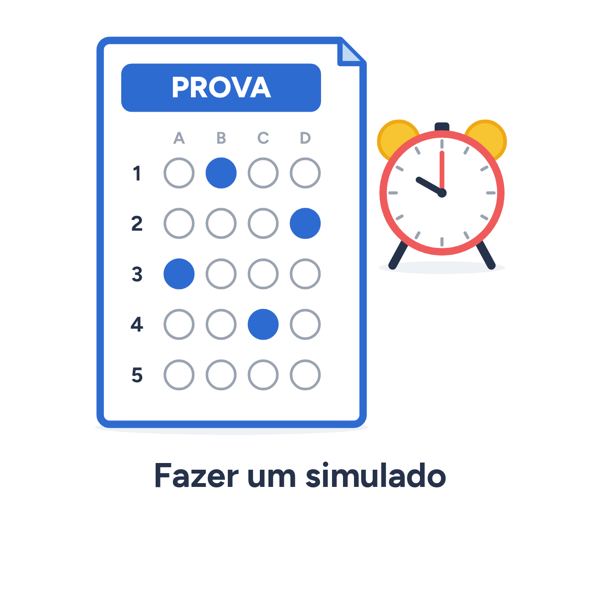
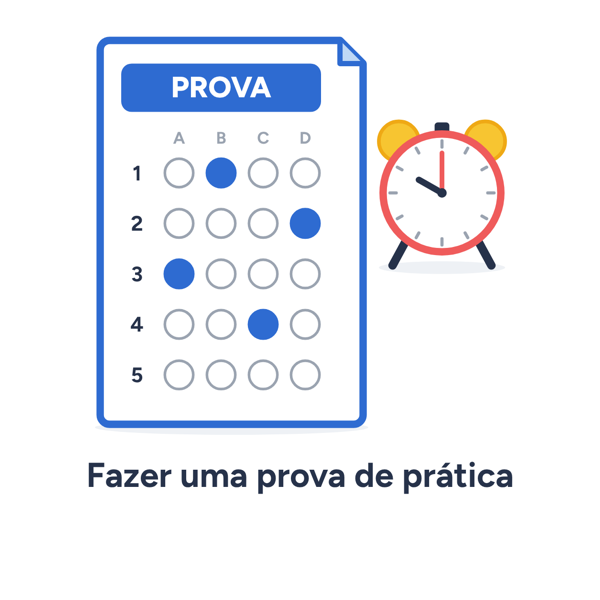
Activity cards: new images from the team folder + 7 text updates
- 19 cards replaced (Task1_activity_illustrations study.zip /
  entertainment.zip, scaled to 600 px): the 7 reworded ones (study_03,
  04, 20, 24, 26, 28, entertainment_23) and 12 study cards whose printed
  caption now matches their text (study_01, 05, 07, 08, 09, 11, 12, 14,
  16, 17, 19, 29). The other 41 cards were identical.
- stimuli.js text for the 7 (PT from the team; EN translated to match).
- image URLs carry ?v=IMG_VERSION so browsers don't show cached old cards.

Changed region(s): [[0.12, 0.75, 0.87, 0.84]]

diff --git a/shared/stimuli.js b/shared/stimuli.js
@@ -9,8 +9,8 @@ const ACTIVITIES = [
   // Study activities (goal)
   { id: 'study_01', cat: 'study', en: "Explain a difficult idea in your own words", pt: "Explicar uma ideia difícil com suas próprias palavras" },
   { id: 'study_02', cat: 'study', en: "Teach the material to a friend", pt: "Ensinar a matéria para um amigo" },
-  { id: 'study_03', cat: 'study', en: "Work through a difficult problem step by step", pt: "Resolver uma questão difícil passo a passo" },
-  { id: 'study_04', cat: 'study', en: "Practice questions without looking at your notes", pt: "Resolver questões sem consultar suas anotações" },
+  { id: 'study_03', cat: 'study', en: "Work through a difficult problem", pt: "Resolver uma questão difícil" },
+  { id: 'study_04', cat: 'study', en: "Do exercises without looking at your notes", pt: "Resolver exercícios sem consultar suas anotações" },
   { id: 'study_05', cat: 'study', en: "Close your notes and write down three key ideas you remember", pt: "Fechar suas anotações e escrever três ideias principais que você consegue lembrar" },
   { id: 'study_06', cat: 'study', en: "Make a list of questions you still have", pt: "Listar todas as suas dúvidas" },
   { id: 'study_07', cat: 'study', en: "Think aloud as you solve a problem", pt: "Pensar em voz alta enquanto resolve uma questão" },
@@ -26,15 +26,15 @@ const ACTIVITIES = [
   { id: 'study_17', cat: 'study', en: "Watch a tutorial about a difficult topic", pt: "Assistir a uma videoaula sobre um assunto difícil" },
   { id: 'study_18', cat: 'study', en: "Review the topics you know the least", pt: "Revisar os assuntos que você menos domina" },
   { id: 'study_19', cat: 'study', en: "Try the question again without looking at the example", pt: "Tentar resolver a questão novamente sem consultar o exemplo" },
-  { id: 'study_20', cat: 'study', en: "Go through the teacher's review sheet", pt: "Estudar pelo roteiro de revisão do professor" },
+  { id: 'study_20', cat: 'study', en: "Study with the teacher's review", pt: "Estudar com a revisão feita pelo professor" },
   { id: 'study_21', cat: 'study', en: "Review your class notes", pt: "Rever suas anotações da aula" },
   { id: 'study_22', cat: 'study', en: "Reread the textbook chapter", pt: "Reler o capítulo do livro" },
   { id: 'study_23', cat: 'study', en: "Make a summary of the material", pt: "Fazer um resumo da matéria" },
-  { id: 'study_24', cat: 'study', en: "Study with digital flashcards", pt: "Estudar com flashcards digitais" },
+  { id: 'study_24', cat: 'study', en: "Study with flashcards", pt: "Estudar com fichas" },
   { id: 'study_25', cat: 'study', en: "Watch a review video lesson", pt: "Assistir a uma videoaula de revisão" },
-  { id: 'study_26', cat: 'study', en: "Highlight the key points", pt: "Marcar os pontos principais" },
+  { id: 'study_26', cat: 'study', en: "Underline the key points in the book", pt: "Sublinhar os pontos principais no livro" },
   { id: 'study_27', cat: 'study', en: "Make a mind map of the topic", pt: "Fazer um mapa mental da matéria" },
-  { id: 'study_28', cat: 'study', en: "Memorize the key definitions", pt: "Decorar as definições principais" },
+  { id: 'study_28', cat: 'study', en: "Memorize the main definitions", pt: "Decorar as principais definições" },
   { id: 'study_29', cat: 'study', en: "Organize your notes and add any missing information", pt: "Organizar suas anotações e acrescentar as informações que faltam" },
   { id: 'study_30', cat: 'study', en: "Solve the exercises in the book", pt: "Resolver os exercícios do livro" },
   // Entertainment activities (temptation)
@@ -60,7 +60,7 @@ const ACTIVITIES = [
   { id: 'entertainment_20', cat: 'entertainment', en: "Go to a friend's house", pt: "Ir à casa de um amigo" },
   { id: 'entertainment_21', cat: 'entertainment', en: "Go to the mall with friends", pt: "Ir ao shopping com os amigos" },
   { id: 'entertainment_22', cat: 'entertainment', en: "Go out to eat with friends", pt: "Sair para comer com os amigos" },
-  { id: 'entertainment_23', cat: 'entertainment', en: "Order a snack on iFood", pt: "Pedir um lanche no iFood" },
+  { id: 'entertainment_23', cat: 'entertainment', en: "Order a snack", pt: "Pedir um lanche" },
   { id: 'entertainment_24', cat: 'entertainment', en: "Play soccer outside", pt: "Jogar bola lá fora" },
   { id: 'entertainment_25', cat: 'entertainment', en: "Play volleyball", pt: "Jogar vôlei" },
   { id: 'entertainment_26', cat: 'entertainment', en: "Ride a bike", pt: "Andar de bicicleta" },
@@ -187,7 +187,9 @@ const TASK1_PRACTICE_LIST = [
 
 /* Pictures. The card already shows the (Portuguese) label, so pages show
    the card alone, with no caption, in every language. */
-const activityImgSrc = act => Session.ROOT + 'shared/activity_images/' + act.cat + '/' + act.id + '.png';
+// Bump IMG_VERSION whenever card images are replaced, so browsers don't show a cached old card.
+const IMG_VERSION = '20261110';
+const activityImgSrc = act => Session.ROOT + 'shared/activity_images/' + act.cat + '/' + act.id + '.png?v=' + IMG_VERSION;
 const activityImgFile = act => act.cat + '/' + act.id + '.png';
 function activityPic(act){
   return `<span class="pic"><img src="${activityImgSrc(act)}" alt="${act.pt.replace(/"/g, '&quot;')}" draggable="false"></span>`;

diff --git a/task1/index.html b/task1/index.html
@@ -4,8 +4,8 @@
 <meta charset="UTF-8">
 <meta name="viewport" content="width=device-width, initial-scale=1.0">
 <title>Game 1</title>
-<link rel="stylesheet" href="../shared/activity.css?v=202611101834">
-<link rel="stylesheet" href="../shared/dragcursor.css?v=202611101834">
+<link rel="stylesheet" href="../shared/activity.css?v=202611101842">
+<link rel="stylesheet" href="../shared/dragcursor.css?v=202611101842">
 <style>
   :root {
     --bg:     #f4efe4;
@@ -178,7 +178,7 @@
 
   @media (max-width: 880px) { main { grid-template-columns: 1fr; } }
 </style>
-<link rel="stylesheet" href="../shared/touch.css?v=202611101834">
+<link rel="stylesheet" href="../shared/touch.css?v=202611101842">
 </head>
 <body>
 <div class="container">
@@ -278,13 +278,13 @@
   </main>
 </div>
 
-<script src="../shared/config.js?v=202611101834"></script>
-<script src="../shared/i18n.js?v=202611101834"></script>
-<script src="../shared/videos.js?v=202611101834"></script>
-<script src="../shared/stimuli.js?v=202611101834"></script>
-<script src="../shared/session.js?v=202611101834"></script>
-<script src="../shared/mousetracking.js?v=202611101834"></script>
-<script src="../shared/dragcursor.js?v=202611101834"></script>
+<script src="../shared/config.js?v=202611101842"></script>
+<script src="../shared/i18n.js?v=202611101842"></script>
+<script src="../shared/videos.js?v=202611101842"></script>
+<script src="../shared/stimuli.js?v=202611101842"></script>
+<script src="../shared/session.js?v=202611101842"></script>
+<script src="../shared/mousetracking.js?v=202611101842"></script>
+<script src="../shared/dragcursor.js?v=202611101842"></script>
 <script>
 /* =============================================================
    TASK 1 — GOAL–TEMPTATION MOUSE-TRACKING

diff --git a/ratings/index.html b/ratings/index.html
@@ -3,9 +3,9 @@
 <head>
 <meta charset="UTF-8">
 <meta name="viewport" content="width=device-width, initial-scale=1.0">
-<link rel="stylesheet" href="../shared/survey.css?v=202611101834">
+<link rel="stylesheet" href="../shared/survey.css?v=202611101842">
 <title>Ratings</title>
-<link rel="stylesheet" href="../shared/activity.css?v=202611101834">
+<link rel="stylesheet" href="../shared/activity.css?v=202611101842">
 <style>
   :root { --bg:#f4efe4; --panel:#ece5d3; --ink:#1f1e2c; --soft:#7a7587; --accent:#a8324a; --rule:#d8cfb6; }
   * { box-sizing: border-box; margin: 0; padding: 0; -webkit-tap-highlight-color: transparent; }
@@ -38,7 +38,7 @@
   .nav button:disabled { opacity: 0.5; cursor: default; }
   .hidden { display: none !important; }
 </style>
-<link rel="stylesheet" href="../shared/touch.css?v=202611101834">
+<link rel="stylesheet" href="../shared/touch.css?v=202611101842">
 </head>
 <body>
 <div class="container">
@@ -69,11 +69,11 @@
   </section>
 </div>
 
-<script src="../shared/config.js?v=202611101834"></script>
-<script src="../shared/i18n.js?v=202611101834"></script>
-<script src="../shared/videos.js?v=202611101834"></script>
-<script src="../shared/stimuli.js?v=202611101834"></script>
-<script src="../shared/session.js?v=202611101834"></script>
+<script src="../shared/config.js?v=202611101842"></script>
+<script src="../shared/i18n.js?v=202611101842"></script>
+<script src="../shared/videos.js?v=202611101842"></script>
+<script src="../shared/stimuli.js?v=202611101842"></script>
+<script src="../shared/session.js?v=202611101842"></script>
 <script>
 /* =============================================================
    RATINGS — stimulus norming (doc "Task 1 Candidate Activity Stimuli v2")

diff --git a/task2/index.html b/task2/index.html
@@ -4,7 +4,7 @@
 <meta charset="UTF-8">
 <meta name="viewport" content="width=device-width, initial-scale=1.0">
 <title>Game 2</title>
-<link rel="stylesheet" href="../shared/dragcursor.css?v=202611101834">
+<link rel="stylesheet" href="../shared/dragcursor.css?v=202611101842">
 <style>
   :root {
     --bg:     #f4efe4;
@@ -281,7 +281,7 @@
   .hidden { display: none !important; }
   @media (max-width: 700px) { main.split { grid-template-columns: 1fr; } }   /* iPad portrait keeps the split */
 </style>
-<link rel="stylesheet" href="../shared/touch.css?v=202611101834">
+<link rel="stylesheet" href="../shared/touch.css?v=202611101842">
 </head>
 <body>
 <div class="container">
@@ -453,13 +453,13 @@
 
 </div>
 
-<script src="../shared/config.js?v=202611101834"></script>
-<script src="../shared/i18n.js?v=202611101834"></script>
-<script src="../shared/session.js?v=202611101834"></script>
-<script src="../shared/questions.js?v=202611101834"></script>
-<script src="../shared/videos.js?v=202611101834"></script>
-<script src="../shared/mousetracking.js?v=202611101834"></script>
-<script src="../shared/dragcursor.js?v=202611101834"></script>
+<script src="../shared/config.js?v=202611101842"></script>
+<script src="../shared/i18n.js?v=202611101842"></script>
+<script src="../shared/session.js?v=202611101842"></script>
+<script src="../shared/questions.js?v=202611101842"></script>
+<script src="../shared/videos.js?v=202611101842"></script>
+<script src="../shared/mousetracking.js?v=202611101842"></script>
+<script src="../shared/dragcursor.js?v=202611101842"></script>
 <script>
 /* =============================================================
    TASK 2 — SPLIT-SCREEN ADT: study content vs. video temptation

diff --git a/allocation/index.html b/allocation/index.html
@@ -3,7 +3,7 @@
 <head>
 <meta charset="UTF-8">
 <meta name="viewport" content="width=device-width, initial-scale=1.0">
-<link rel="stylesheet" href="../shared/slider.css?v=202611101834">
+<link rel="stylesheet" href="../shared/slider.css?v=202611101842">
 <title>Planning</title>
 <style>
   :root { --bg:#f4efe4; --panel:#ece5d3; --ink:#1f1e2c; --soft:#7a7587; --accent:#a8324a; --rule:#d8cfb6; }
@@ -44,7 +44,7 @@
   .hidden { display: none !important; }
   @media (max-width: 560px) { .card { padding: 22px 18px; } .box .n { font-size: 28px; } }
 </style>
-<link rel="stylesheet" href="../shared/touch.css?v=202611101834">
+<link rel="stylesheet" href="../shared/touch.css?v=202611101842">
 </head>
 <body>
 <div class="container">
@@ -79,10 +79,10 @@
   <section class="card hidden" id="doneCard"><p id="doneNote"></p></section>
 </div>
 
-<script src="../shared/config.js?v=202611101834"></script>
-<script src="../shared/i18n.js?v=202611101834"></script>
-<script src="../shared/session.js?v=202611101834"></script>
-<script src="../shared/slider.js?v=202611101834"></script>
+<script src="../shared/config.js?v=202611101842"></script>
+<script src="../shared/i18n.js?v=202611101842"></script>
+<script src="../shared/session.js?v=202611101842"></script>
+<script src="../shared/slider.js?v=202611101842"></script>
 <script>
 /* =============================================================
    150-PROBLEM ALLOCATION (meeting 10/13, items 6–7)

diff --git a/survey/index.html b/survey/index.html
@@ -38,8 +38,8 @@
   .nav button:disabled { opacity: 0.5; cursor: default; }
 
 </style>
-<link rel="stylesheet" href="../shared/survey.css?v=202611101834">
-<link rel="stylesheet" href="../shared/touch.css?v=202611101834">
+<link rel="stylesheet" href="../shared/survey.css?v=202611101842">
+<link rel="stylesheet" href="../shared/touch.css?v=202611101842">
 </head>
 <body>
 <div class="container">
@@ -55,11 +55,11 @@
   </div>
 </div>
 
-<script src="../shared/config.js?v=202611101834"></script>
-<script src="../shared/i18n.js?v=202611101834"></script>
-<script src="../shared/surveys.js?v=202611101834"></script>
-<script src="../shared/session.js?v=202611101834"></script>
-<script src="../shared/surveyrunner.js?v=202611101834"></script>
+<script src="../shared/config.js?v=202611101842"></script>
+<script src="../shared/i18n.js?v=202611101842"></script>
+<script src="../shared/surveys.js?v=202611101842"></script>
+<script src="../shared/session.js?v=202611101842"></script>
+<script src="../shared/surveyrunner.js?v=202611101842"></script>
 <script>
 Session.applyI18n();
 document.title = Session.t('survey_title');

diff --git a/daily_reset/index.html b/daily_reset/index.html
@@ -38,8 +38,8 @@
   .nav button:disabled { opacity: 0.5; cursor: default; }
 
 </style>
-<link rel="stylesheet" href="../shared/survey.css?v=202611101834">
-<link rel="stylesheet" href="../shared/touch.css?v=202611101834">
+<link rel="stylesheet" href="../shared/survey.css?v=202611101842">
+<link rel="stylesheet" href="../shared/touch.css?v=202611101842">
 </head>
 <body>
 <div class="container">
@@ -55,11 +55,11 @@
   </div>
 </div>
 
-<script src="../shared/config.js?v=202611101834"></script>
-<script src="../shared/i18n.js?v=202611101834"></script>
-<script src="../shared/surveys.js?v=202611101834"></script>
-<script src="../shared/session.js?v=202611101834"></script>
-<script src="../shared/surveyrunner.js?v=202611101834"></script>
+<script src="../shared/config.js?v=202611101842"></script>
+<script src="../shared/i18n.js?v=202611101842"></script>
+<script src="../shared/surveys.js?v=202611101842"></script>
+<script src="../shared/session.js?v=202611101842"></script>
+<script src="../shared/surveyrunner.js?v=202611101842"></script>
 <script>
 Session.applyI18n();
 document.title = Session.t('dr_title');

diff --git a/viz/index.html b/viz/index.html
@@ -76,10 +76,10 @@
   // stimuli.js builds picture paths from Session.ROOT; this page needs only that.
   var Session = { ROOT: '../', lang: 'pt', pick: a => (a && (a.pt || a.en)) || '' };
 </script>
-<script src="../shared/config.js?v=202611101834"></script>
-<script src="../shared/videos.js?v=202611101834"></script>
-<script src="../shared/stimuli.js?v=202611101834"></script>
-<script src="../shared/questions.js?v=202611101834"></script>
+<script src="../shared/config.js?v=202611101842"></script>
+<script src="../shared/videos.js?v=202611101842"></script>
+<script src="../shared/stimuli.js?v=202611101842"></script>
+<script src="../shared/questions.js?v=202611101842"></script>
 <script>
 /* =============================================================
    DATA VIEWER + CHECKS (researchers)
@@ -549,6 +549,6 @@ function viewRatings(){
     </tbody></table></div></div></div>`;
 }
 </script>
-<script src="../shared/surveys.js?v=202611101834"></script>
+<script src="../shared/surveys.js?v=202611101842"></script>
 </body>
 </html>

diff --git a/demographics/index.html b/demographics/index.html
@@ -25,7 +25,7 @@
   .nav button { padding: 14px 44px; border: 1px solid var(--ink); background: var(--ink); color: var(--bg); font-family: inherit; font-size: 15px; letter-spacing: 0.14em; text-transform: uppercase; cursor: pointer; }
   .nav button:disabled { opacity: 0.5; cursor: default; }
 </style>
-<link rel="stylesheet" href="../shared/touch.css?v=202611101834">
+<link rel="stylesheet" href="../shared/touch.css?v=202611101842">
 </head>
 <body>
 <div class="container">
@@ -45,9 +45,9 @@
   </div>
 </div>
 
-<script src="../shared/config.js?v=202611101834"></script>
-<script src="../shared/i18n.js?v=202611101834"></script>
-<script src="../shared/session.js?v=202611101834"></script>
+<script src="../shared/config.js?v=202611101842"></script>
+<script src="../shared/i18n.js?v=202611101842"></script>
+<script src="../shared/session.js?v=202611101842"></script>
 <script>
 /* Grade (school year 4–12) and age (8 … 18, "19 or older"), both picked
    from a list, after the assent page. Saved to the `demographics` table. */

diff --git a/done.html b/done.html
@@ -18,7 +18,7 @@
   .box button { margin: 3px 4px 3px 0; padding: 6px 10px; border: 1px solid var(--ink); background: var(--bg); font-family: inherit; font-size: 11px; letter-spacing: 0.1em; text-transform: uppercase; cursor: pointer; }
   .note { color: var(--accent); }
 </style>
-<link rel="stylesheet" href="shared/touch.css?v=202611101834">
+<link rel="stylesheet" href="shared/touch.css?v=202611101842">
 </head>
 <body>
 <div class="container">
@@ -35,9 +35,9 @@
     </div>
   </details>
 </div>
-<script src="shared/config.js?v=202611101834"></script>
-<script src="shared/i18n.js?v=202611101834"></script>
-<script src="shared/session.js?v=202611101834"></script>
+<script src="shared/config.js?v=202611101842"></script>
+<script src="shared/i18n.js?v=202611101842"></script>
+<script src="shared/session.js?v=202611101842"></script>
 <script>
 Session.applyI18n();
 document.title = Session.t('done_title');

diff --git a/index.html b/index.html
@@ -66,7 +66,7 @@
   details.research code { font-family: ui-monospace, SFMono-Regular, Menlo, monospace; font-size: 12px; }
   .status { display: inline-block; padding: 1px 8px; border: 1px solid var(--rule); font-size: 11px; }
 </style>
-<link rel="stylesheet" href="shared/touch.css?v=202611101834">
+<link rel="stylesheet" href="shared/touch.css?v=202611101842">
 </head>
 <body>
 <div class="container">
@@ -110,9 +110,9 @@
   </details>
 </div>
 
-<script src="shared/config.js?v=202611101834"></script>
-<script src="shared/i18n.js?v=202611101834"></script>
-<script src="shared/session.js?v=202611101834"></script>
+<script src="shared/config.js?v=202611101842"></script>
+<script src="shared/i18n.js?v=202611101842"></script>
+<script src="shared/session.js?v=202611101842"></script>
 <script>
 const $ = id => document.getElementById(id);
 Session.applyI18n();

diff --git a/assent/index.html b/assent/index.html
@@ -26,7 +26,7 @@
   .nav button:disabled { opacity: 0.5; cursor: default; }
   .hidden { display: none !important; }
 </style>
-<link rel="stylesheet" href="../shared/touch.css?v=202611101834">
+<link rel="stylesheet" href="../shared/touch.css?v=202611101842">
 </head>
 <body>
 <div class="container">
@@ -52,9 +52,9 @@
   </div>
 </div>
 
-<script src="../shared/config.js?v=202611101834"></script>
-<script src="../shared/i18n.js?v=202611101834"></script>
-<script src="../shared/session.js?v=202611101834"></script>
+<script src="../shared/config.js?v=202611101842"></script>
+<script src="../shared/i18n.js?v=202611101842"></script>
+<script src="../shared/session.js?v=202611101842"></script>
 <script>
 /* Student assent, right after the ID. "Sim" → Task 1; "Não" → the session
    ends here. Either answer is saved (table `assent`) so a refusal is on
